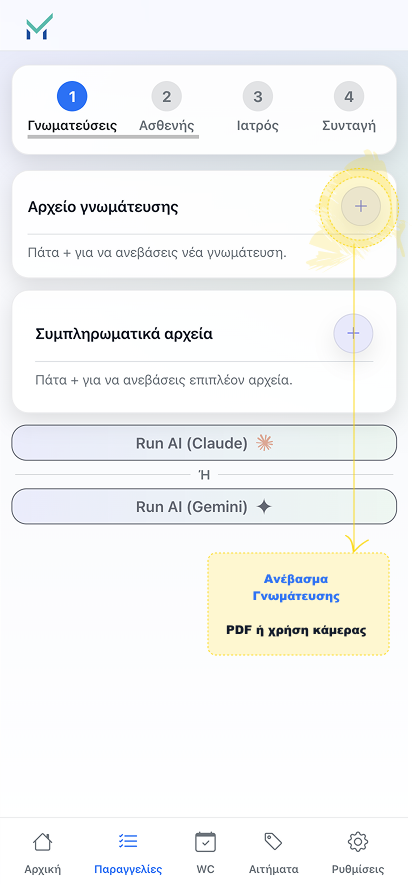
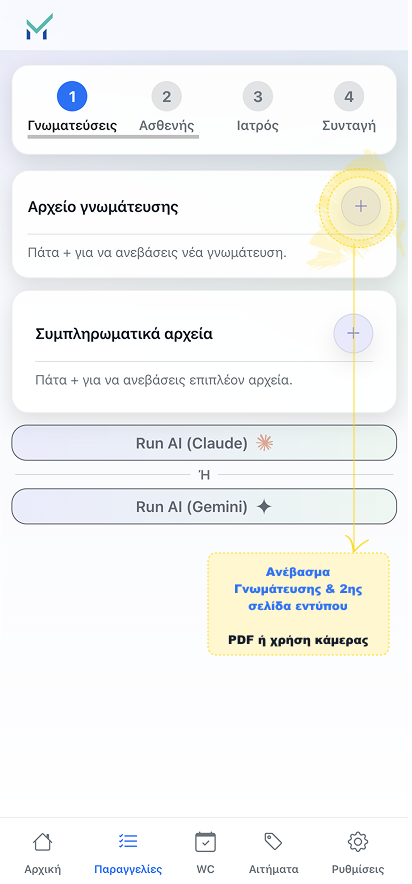
updates order ssteps

Changed region(s): [[0.5534, 0.6414, 0.9029, 0.733]]

diff --git a/app/create-order/page.tsx b/app/create-order/page.tsx
@@ -7,6 +7,7 @@ import { PhoneFrameImage } from "@/components/phone-frame"
 
 type DetailBlock = {
   title?: string
+  description?: string
   items?: string[]
   note?: string
 }
@@ -33,7 +34,7 @@ type IntroStep = {
   title: string
   description?: string
   items?: string[]
-  image: StepImage
+  image: StepImage | StepImage[]
 }
 
 type OrderStep = {
@@ -50,10 +51,16 @@ const introSteps: IntroStep[] = [
     title: "Είσοδος",
     description: "👉Από Αρχική 🏠 ή Παραγγελίες 📋",
     items: ["→ πατήστε το ➕ για να ξεκινήσετε"],
-    image: {
-      src: "/order/step1-1.png",
-      alt: "Οθόνη εισόδου στη δημιουργία νέας παραγγελίας",
-    },
+    image: [
+      {
+        src: "/order/step1.png",
+        alt: "Οθόνη εισόδου στη δημιουργία νέας παραγγελίας",
+      },
+      {
+        src: "/order/step1-1.png",
+        alt: "Οθόνη εισόδου στη δημιουργία νέας παραγγελίας",
+      },
+    ],
   },
   {
     step: "Βήμα 2",
@@ -97,7 +104,7 @@ const eopyySteps: OrderStep[] = [
         blocks: [
           {
             title: "Βήμα 1.1",
-            note: "➕ Πατήστε το κουμπί για να ανεβάσετε τη γνωμάτευση 📄",
+            note: "➕ Πατήστε το κουμπί για να ανεβάσετε τη γνωμάτευση 📄 και την 2η σελίδα του εντύπου. ",
           },
         ],
       },
@@ -130,7 +137,7 @@ const eopyySteps: OrderStep[] = [
             note: "👉 Στην ενότητα Συμπληρωματικά αρχεία ➕ Πατήστε το κουμπί για να προσθέσετε επιπλέον αρχεία",
           },
           {
-            note: "📎 Χρησιμοποιείται όταν απαιτούνται επιπλέον δικαιολογητικά (π.χ. έντυπο συναίνεσης).",
+            note: "📎 Χρησιμοποιείται όταν απαιτούνται επιπλέον δικαιολογητικά (π.χ. κάρτα ιατρού, φωτογραφία τραύματος ή οποιοδήποτε επιπλέον έγγραφο που αφορά τον ασθενή).",
           },
         ],
       },
@@ -304,12 +311,18 @@ const eopyySteps: OrderStep[] = [
     items: [
       {
         id: "syntagi-stoixeia",
-        title: "Στοιχεία συνταγής",
+        title: "Βήμα 4: Στοιχεία συνταγής",
         blocks: [
           {
             items: ["Barcode συνταγής", "Ημερομηνία συνταγής", "Περίοδο ισχύος (από - έως)", "Κατηγορία παροχής", "Είδος", "Κωδικούς και περιγραφές διάγνωσης (ICD)"],
-            note: "Ελέγξτε την ορθότητα των στοιχείων και προχωρήστε σε διορθώσεις όπου απαιτείται.",
+            note: "Ελέγξτε την ορθότητα των στοιχείων και προχωρήστε σε διορθώσεις όπου απαιτείται. Αν δεν έχει περαστεί αυτόματα το Barcode της συνταγής: 👉 Στο πεδίο Barcode, πατήστε το εικονίδιο 📷 για σάρωση της συνταγής. 👉 Στρέψτε την κάμερα προς το barcode και κρατήστε τη σταθερή για αυτόματη αναγνώριση.",
           },
+        ],
+         media: [
+          { type: "image", src: "/order/step4.png", alt: "Στοιχεία συνταγής" },
+          { type: "image", src: "/order/step4-1.png", alt: "Barcode" },
+          { type: "image", src: "/order/step4-2.png", alt: "Scan" },
+          { type: "image", src: "/order/step4-3.png", alt: "Type" },
         ],
       },
     ],
@@ -329,27 +342,27 @@ const eopyySteps: OrderStep[] = [
             items: ["Κωδικός υλικού", "Περιγραφή", "Ποσότητα"],
             note: "Ελέγξτε ότι τα υλικά και οι ποσότητες είναι σωστά.",
           },
-        ],
-      },
-      {
-        id: "ylika-prosthiki",
-        title: "Προσθήκη Υλικών",
-        blocks: [
           {
             title: "Προσθήκη Υλικών",
-            items: ["Πατήστε το κουμπί (+)", "Πληκτρολογήστε κωδικό ή περιγραφή στο πεδίο αναζήτησης", "Επιλέξτε το επιθυμητό υλικό"],
+            items: [
+              "Πατήστε το κουμπί (+)",
+              "Πληκτρολογήστε κωδικό ή περιγραφή στο πεδίο αναζήτησης",
+              "Επιλέξτε το επιθυμητό υλικό",
+            ],
           },
-        ],
-      },
-      {
-        id: "ylika-tropopoiisi",
-        title: "Τροποποίηση Υλικών",
-        blocks: [
           {
             title: "Τροποποίηση Υλικών",
-            items: ["Μπορείτε να αλλάξετε την ποσότητα κάθε υλικού", "Μπορείτε να προσθέσετε ή να αφαιρέσετε υλικά, εφόσον απαιτείται"],
+            items: [
+              "Μπορείτε να αλλάξετε την ποσότητα κάθε υλικού",
+              "Μπορείτε να προσθέσετε ή να αφαιρέσετε υλικά, εφόσον απαιτείται",
+            ],
             note: "Βεβαιωθείτε ότι τα υλικά συμφωνούν με τη γνωμάτευση πριν προχωρήσετε στο επόμενο βήμα.",
           },
+        ],
+        media: [
+          { type: "image", src: "/order/step5.png", alt: "Υλικά" },
+          { type: "image", src: "/order/step5-1.png", alt: "Προσθήκη Υλικών" },
+          { type: "image", src: "/order/step5-2.png", alt: "Αναζήτηση Υλικών" },
         ],
       },
     ],
@@ -559,6 +572,12 @@ function DetailBlockContent({
         </h3>
       ) : null}
 
+      {block.description ? (
+        <p className="mt-3 text-sm leading-6 text-black/[0.72] sm:text-[15px]">
+          {block.description}
+        </p>
+      ) : null}
+
       {block.items?.length ? (
         <ul className="mt-4 space-y-2 text-sm leading-6 text-black/[0.72] sm:text-[15px]">
           {block.items.map((item) => (
@@ -595,11 +614,15 @@ function getStepMediaItems(media: StepItem["media"]) {
   return Array.isArray(media) ? media : [media]
 }
 
+function getIntroStepImages(image: IntroStep["image"]) {
+  return Array.isArray(image) ? image : [image]
+}
+
 function StepMediaCarousel({
   mediaItems,
   itemId,
 }: {
-  mediaItems: StepMedia[]
+  mediaItems: StepImage[]
   itemId: string
 }) {
   const [activeMediaIndex, setActiveMediaIndex] = useState(0)
@@ -857,38 +880,42 @@ export default function CreateOrderPage() {
 
 
           <div className="mt-8 grid gap-6">
-            {introSteps.map((step) => (
-              <article
-                key={step.title}
-                className="grid gap-6 lg:grid-cols-[minmax(0,1fr)_minmax(360px,0.95fr)] lg:items-start"
-              >
-                <div className="rounded-[1.75rem] border border-[rgba(0,0,0,0.08)] bg-[#fffaf4] p-6 sm:p-7">
-                  <p className="text-sm font-semibold uppercase tracking-[0.2em] text-[#1F5FAF]">
-                    {step.step}
-                  </p>
-                  <h3 className="mt-3 text-xl font-semibold text-black">
-                    {step.title}
-                  </h3>
-                  {step.description ? (
-                    <p className="mt-3 text-sm leading-6 text-black/[0.7]">
-                      {step.description}
-                    </p>
-                  ) : null}
-                  {step.items?.length ? (
-                    <ul className="mt-4 space-y-2 text-sm leading-6 text-black/[0.72]">
-                      {step.items.map((item) => (
-                        <li key={item} className="flex gap-3">
-                          <span className="mt-2 h-1.5 w-1.5 shrink-0 rounded-full bg-[#2C7BE5]" />
-                          <span>{item}</span>
-                        </li>
-                      ))}
-                    </ul>
-                  ) : null}
-                </div>
+            {introSteps.map((step) => {
+              const imageItems = getIntroStepImages(step.image)
 
-                <PhoneFrameImage src={step.image.src} alt={step.image.alt} />
-              </article>
-            ))}
+              return (
+                <article
+                  key={step.title}
+                  className="grid gap-6 lg:grid-cols-[minmax(0,1fr)_minmax(360px,0.95fr)] lg:items-start"
+                >
+                  <div className="rounded-[1.75rem] border border-[rgba(0,0,0,0.08)] bg-[#fffaf4] p-6 sm:p-7">
+                    <p className="text-sm font-semibold uppercase tracking-[0.2em] text-[#1F5FAF]">
+                      {step.step}
+                    </p>
+                    <h3 className="mt-3 text-xl font-semibold text-black">
+                      {step.title}
+                    </h3>
+                    {step.description ? (
+                      <p className="mt-3 text-sm leading-6 text-black/[0.7]">
+                        {step.description}
+                      </p>
+                    ) : null}
+                    {step.items?.length ? (
+                      <ul className="mt-4 space-y-2 text-sm leading-6 text-black/[0.72]">
+                        {step.items.map((item) => (
+                          <li key={item} className="flex gap-3">
+                            <span className="mt-2 h-1.5 w-1.5 shrink-0 rounded-full bg-[#2C7BE5]" />
+                            <span>{item}</span>
+                          </li>
+                        ))}
+                      </ul>
+                    ) : null}
+                  </div>
+
+                  <StepMediaCarousel mediaItems={imageItems} itemId={step.title} />
+                </article>
+              )
+            })}
           </div>
         </section>
 